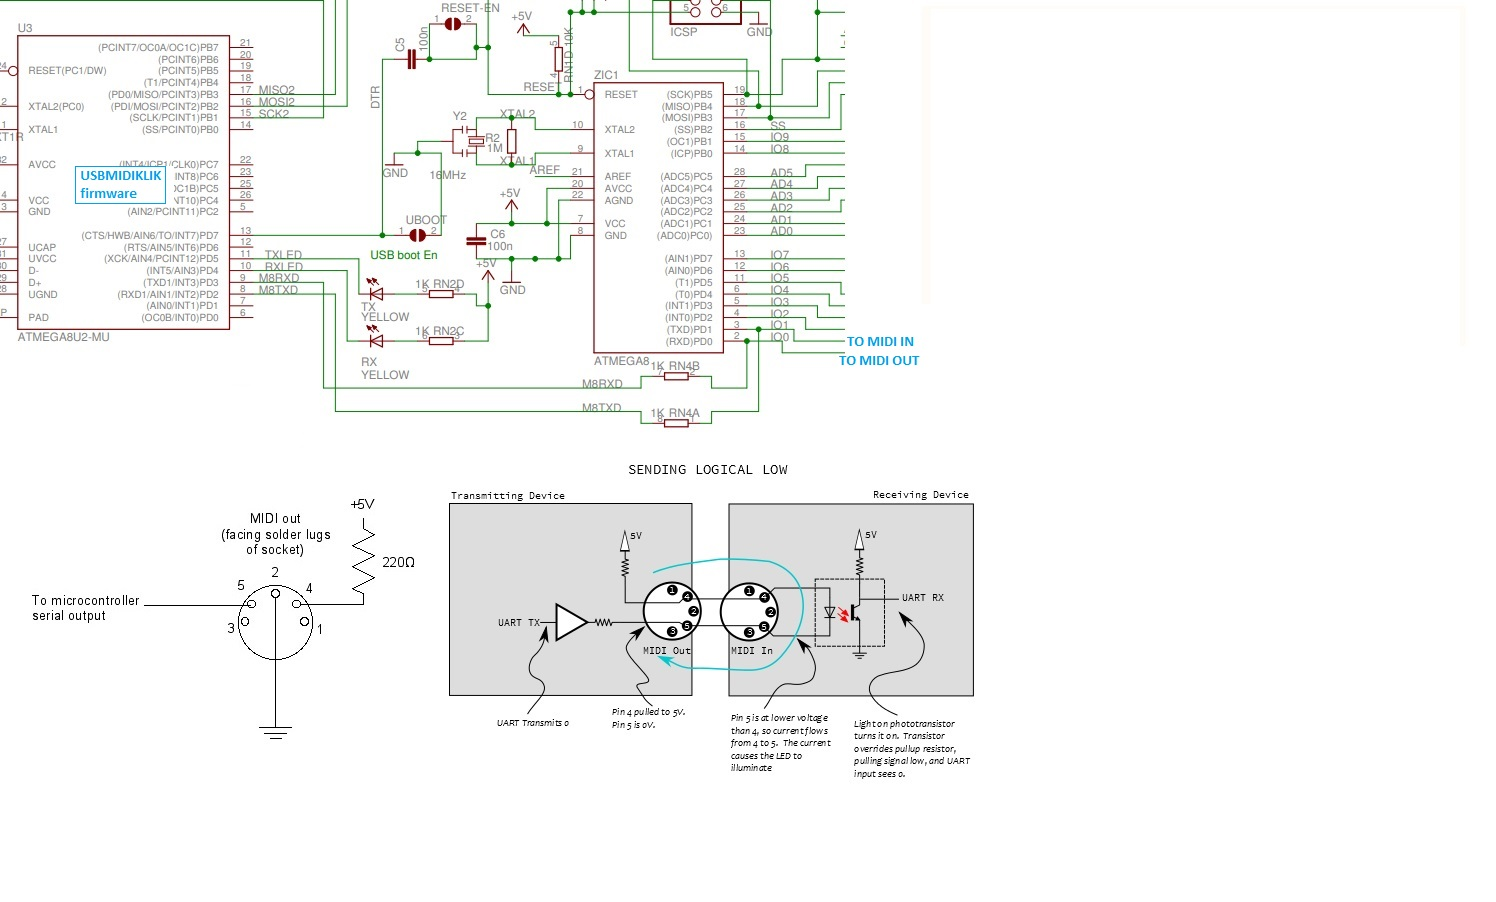
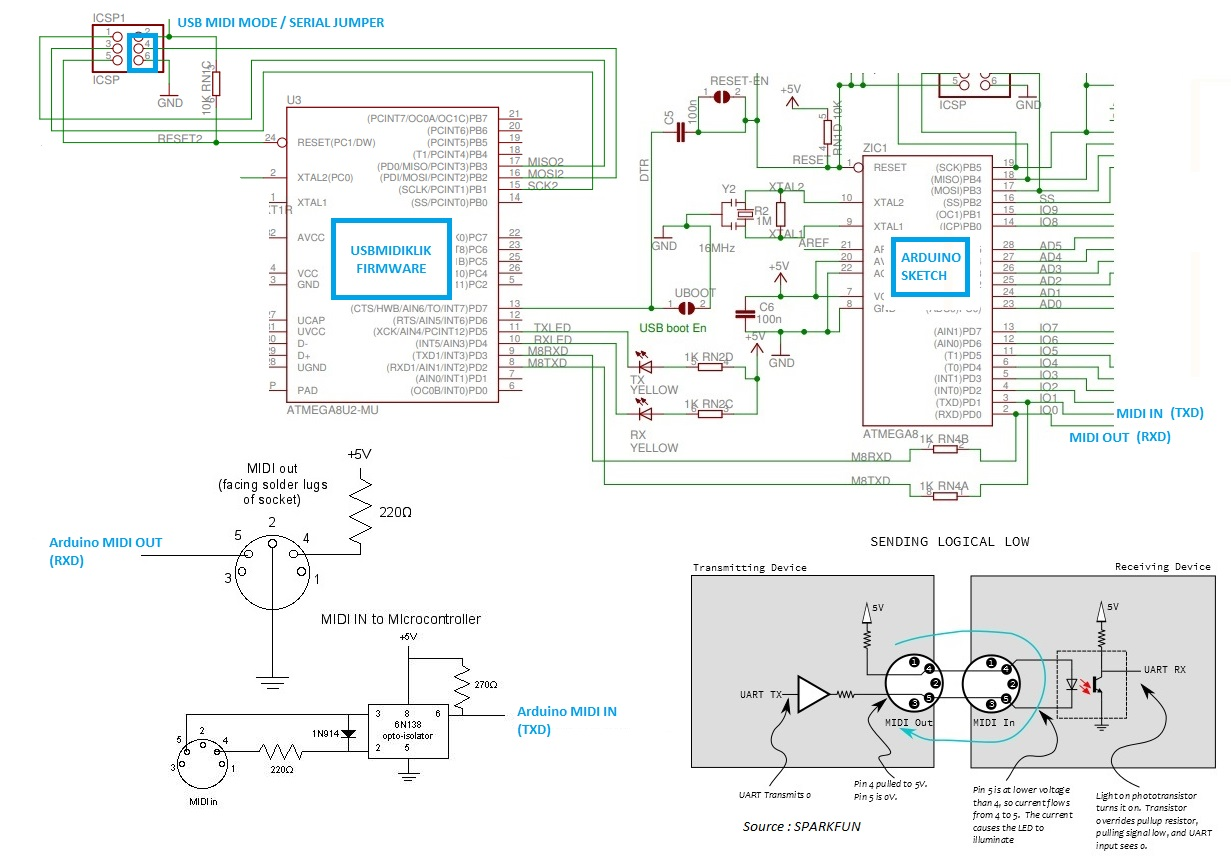
Some comments adjusted, MIDI schematic amended.

diff --git a/USBMidiKliK_dual.cpp b/USBMidiKliK_dual.cpp
@@ -5,12 +5,12 @@
  *  Based on :
  *     . The wonderful LUFA low-level midi lib and examples by Dean Camera
  *               (http://www.fourwalledcubicle.com/LUFA.php)
- *     . Inspired by HIDUINO by Dimitri Diakopoulos
+ *     . Inspired by HIDUINO from Dimitri Diakopoulos
  *               (http://www.dimitridiakopoulos.com)
- *     . Inspired also by dualMocoLUFA Project by morecat_la
+ *     . Inspired also by dualMocoLUFA Project from morecat_lab
  *               (http://morecatlab.akiba.coocan.jp/)
   *
- *  Compiled against the last LUFA version / MIDI library
+ *  Compiled against the last LUFA version.
 
         USB                        ATMEGA8U2                    ATMEGA 328P
    --------------      ------------------------------         ---------------
